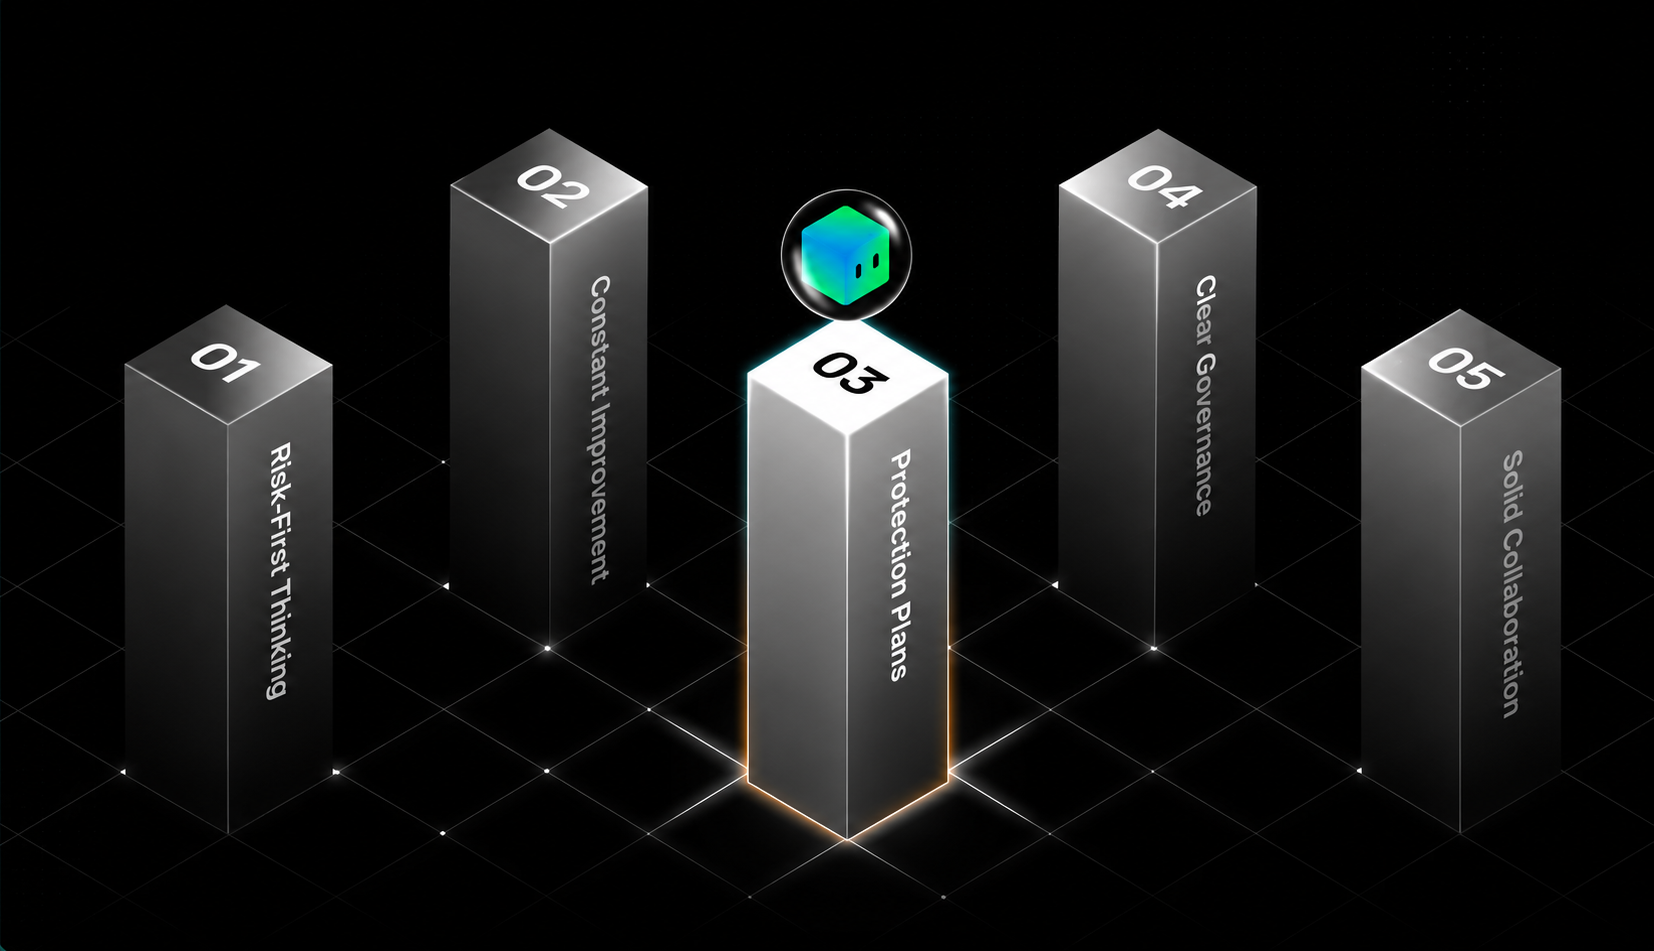
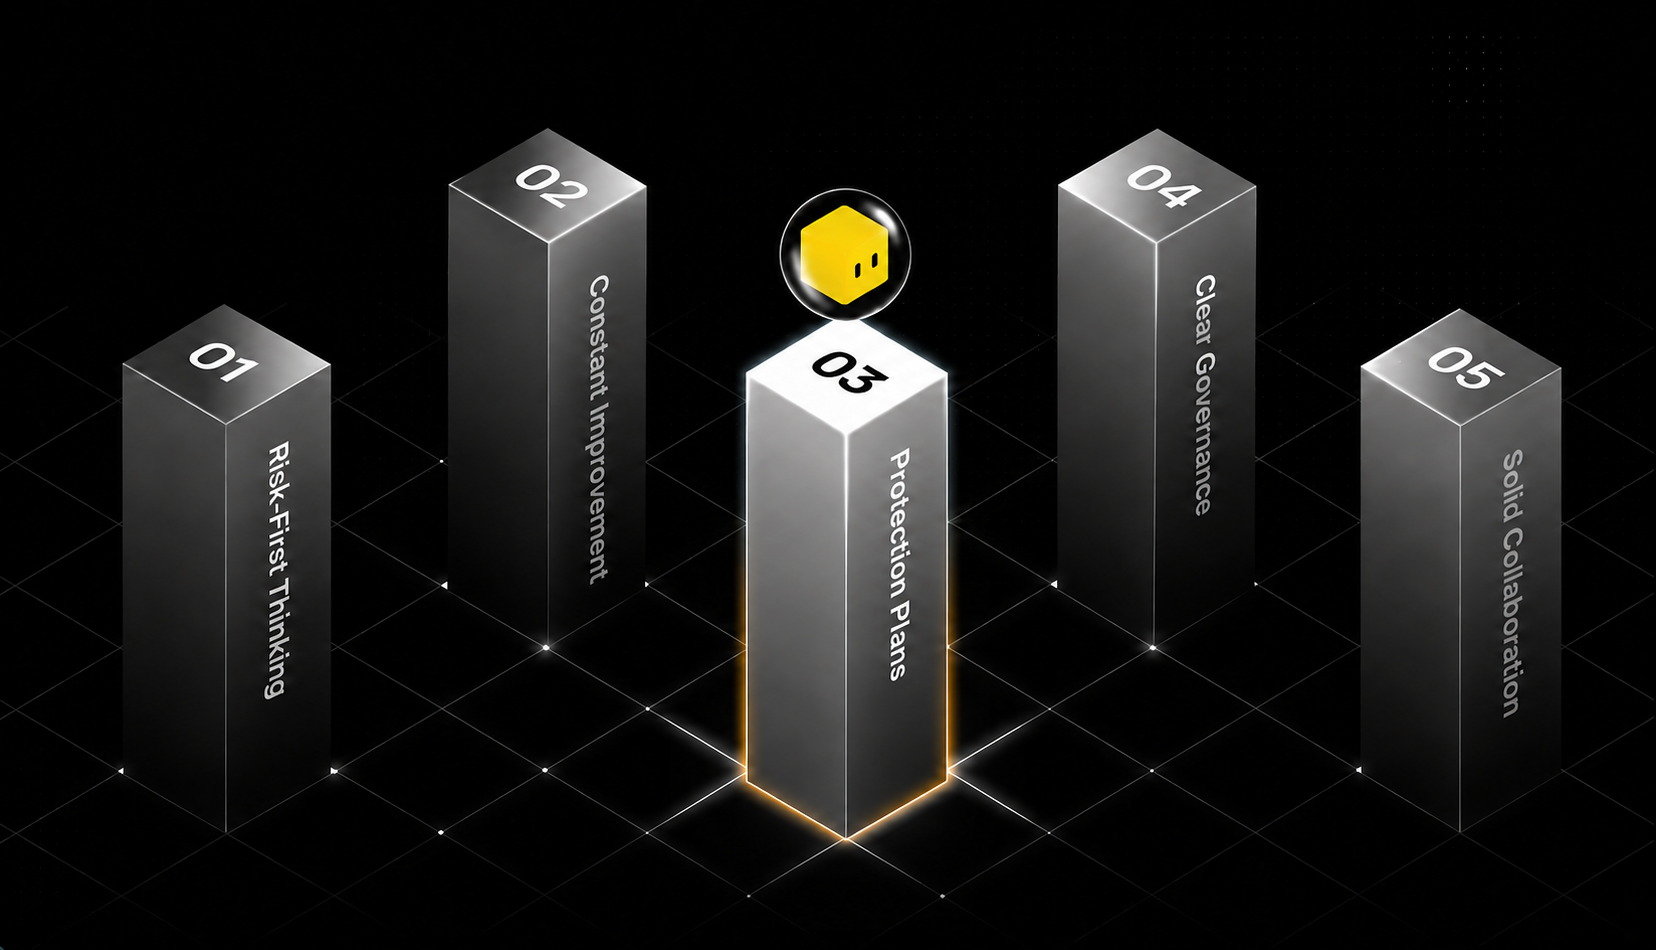
style(frontend): refine pixel dashboard theme

diff --git a/codebase/frontend/src/components/layout/AppSidebar.vue b/codebase/frontend/src/components/layout/AppSidebar.vue
@@ -1,5 +1,5 @@
 <template>
-  <aside class="w-60 border-r border-surface-border bg-surface-card/50 flex flex-col shrink-0">
+  <aside class="w-60 border-r border-surface-border bg-black flex flex-col shrink-0">
     <!-- Workflow Steps -->
     <nav class="flex-1 p-4 space-y-1">
       <div class="text-[10px] font-semibold text-text-muted uppercase tracking-widest mb-4 px-3">Assessment Flow</div>
@@ -11,18 +11,18 @@
         :class="[
           'flex items-center gap-3 px-3 py-2.5 rounded-lg text-sm font-medium transition-all duration-200 group',
           isActive(item.path)
-            ? 'bg-cyber-cyan/10 text-cyber-cyan border border-cyber-cyan/20'
-            : 'text-text-muted hover:text-text-primary hover:bg-surface-hover border border-transparent'
+            ? 'bg-yellow-400/10 text-yellow-400 border border-yellow-400/30'
+            : 'text-slate-500 hover:text-slate-400 hover:bg-surface-hover border border-transparent'
         ]"
       >
         <span
           :class="[
             'w-6 h-6 rounded-md flex items-center justify-center text-xs font-bold shrink-0 transition-colors',
             isActive(item.path)
-              ? 'bg-cyber-cyan text-surface-bg'
+              ? 'bg-yellow-400 text-black'
               : isCompleted(index) 
-                ? 'bg-status-pass/20 text-status-pass'
-                : 'bg-surface-elevated text-text-muted'
+                ? 'bg-status-pass/20 text-white'
+                : 'bg-surface-elevated text-white'
           ]"
         >
           <svg v-if="isCompleted(index) && !isActive(item.path)" xmlns="http://www.w3.org/2000/svg" width="12" height="12" viewBox="0 0 24 24" fill="none" stroke="currentColor" stroke-width="3" stroke-linecap="round" stroke-linejoin="round"><polyline points="20 6 9 17 4 12"/></svg>
@@ -31,7 +31,7 @@
         <span>{{ item.label }}</span>
         
         <!-- Active glow indicator -->
-        <span v-if="isActive(item.path)" class="ml-auto w-1.5 h-1.5 rounded-full bg-cyber-cyan shadow-[0_0_6px_rgba(6,182,212,0.6)]"></span>
+        <span v-if="isActive(item.path)" class="ml-auto w-1.5 h-1.5 rounded-full bg-yellow-400 shadow-[0_0_6px_rgba(250,204,21,0.6)]"></span>
       </router-link>
     </nav>
     

diff --git a/codebase/frontend/src/components/layout/AppNavbar.vue b/codebase/frontend/src/components/layout/AppNavbar.vue
@@ -1,17 +1,17 @@
 <template>
-  <header class="h-14 border-b border-surface-border bg-surface-card/80 backdrop-blur-md sticky top-0 z-50">
+  <header class="h-14 border-b border-surface-border bg-black/95 backdrop-blur-md sticky top-0 z-50">
     <div class="h-full px-6 flex items-center justify-between">
       <!-- Logo -->
       <div class="flex items-center gap-3">
         <div class="w-8 h-8 rounded-lg bg-cyber-cyan/10 border border-cyber-cyan/20 flex items-center justify-center">
           <Shield class="w-4 h-4 text-cyber-cyan" />
         </div>
-        <span class="font-bold text-sm gradient-text tracking-wide">PI-RAG SECURITY CHECKER</span>
+        <span class="brand-title text-sm tracking-wide">PI-RAG SECURITY CHECKER</span>
       </div>
       
       <!-- Right actions -->
       <div class="flex items-center gap-4">
-        <div class="flex items-center gap-2 text-xs text-text-muted">
+        <div class="navbar-text flex items-center gap-2 text-xs">
           <span class="w-2 h-2 rounded-full bg-status-pass animate-pulse"></span>
           System Online
         </div>
@@ -23,3 +23,22 @@
 <script setup lang="ts">
 import { Shield } from '@lucide/vue';
 </script>
+
+<style scoped>
+.brand-title {
+  color: #facc15;
+  font-family: 'Press Start 2P', "PP NeueBit", sans-serif;
+  font-weight: 400;
+  font-size: 0.625rem;
+  line-height: 1.35;
+  text-shadow: 2px 2px 0 rgba(113, 63, 18, 0.9), 0 0 8px rgba(250, 204, 21, 0.5);
+}
+
+.navbar-text {
+  color: #ffffff;
+  font-family: 'Press Start 2P', "PP NeueBit", sans-serif;
+  font-size: 0.55rem;
+  line-height: 1.35;
+  text-shadow: 1px 1px 0 rgba(0, 0, 0, 0.9);
+}
+</style>

diff --git a/codebase/frontend/src/style.css b/codebase/frontend/src/style.css
@@ -1,5 +1,5 @@
+@import url('https://fonts.googleapis.com/css2?family=Inter:wght@300;400;500;600;700;800;900&family=JetBrains+Mono:wght@400;500;600;700&family=Press+Start+2P&display=swap');
 @import "tailwindcss";
-@import url('https://fonts.googleapis.com/css2?family=Inter:wght@300;400;500;600;700;800;900&family=JetBrains+Mono:wght@400;500;600;700&display=swap');
 
 /* ═══════════════════════════════════════════
    CyberShield Design System
@@ -42,8 +42,8 @@
   --color-text-muted: #64748b;
 
   /* Fonts */
-  --font-sans: 'Inter', system-ui, -apple-system, sans-serif;
-  --font-mono: 'JetBrains Mono', ui-monospace, Consolas, monospace;
+  --font-sans: 'Press Start 2P', "PP NeueBit", sans-serif;
+  --font-mono: 'Press Start 2P', "PP NeueBit", monospace;
 }
 
 /* ── Base ─────────────────────────────────── */
